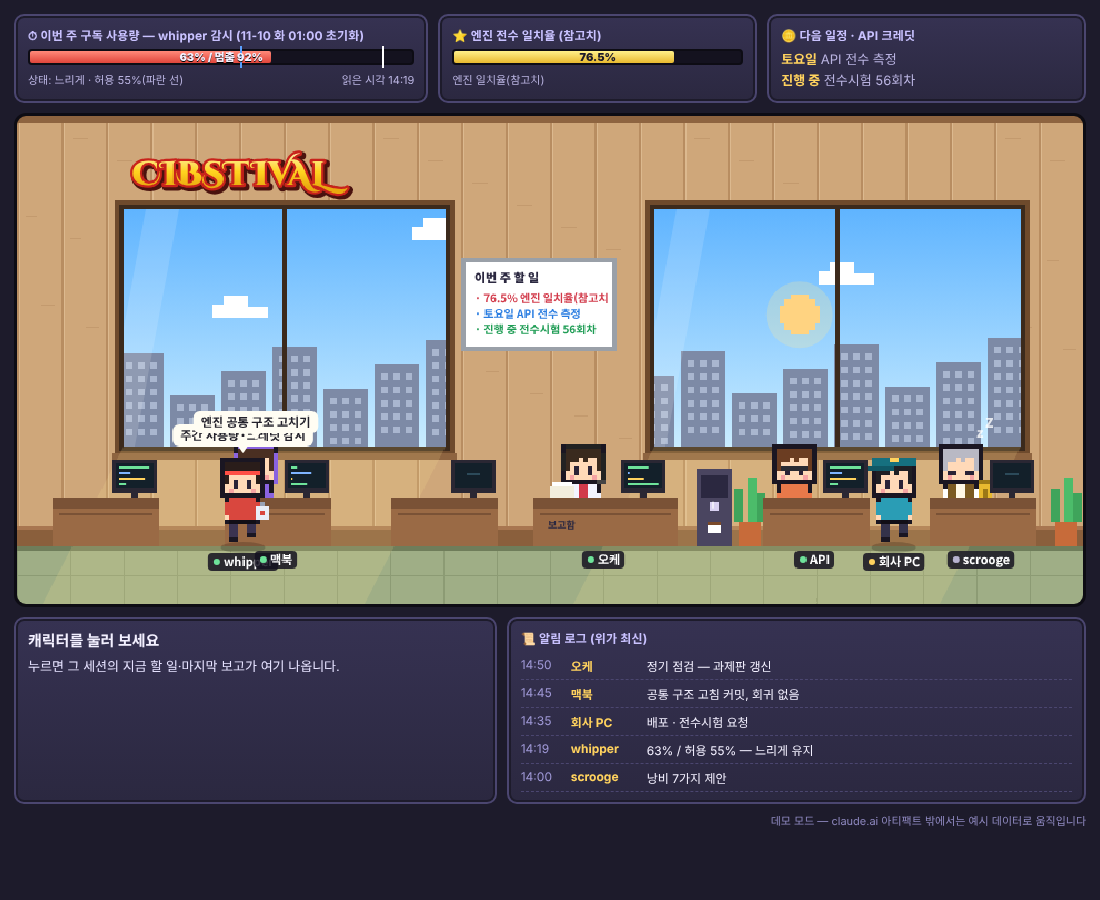
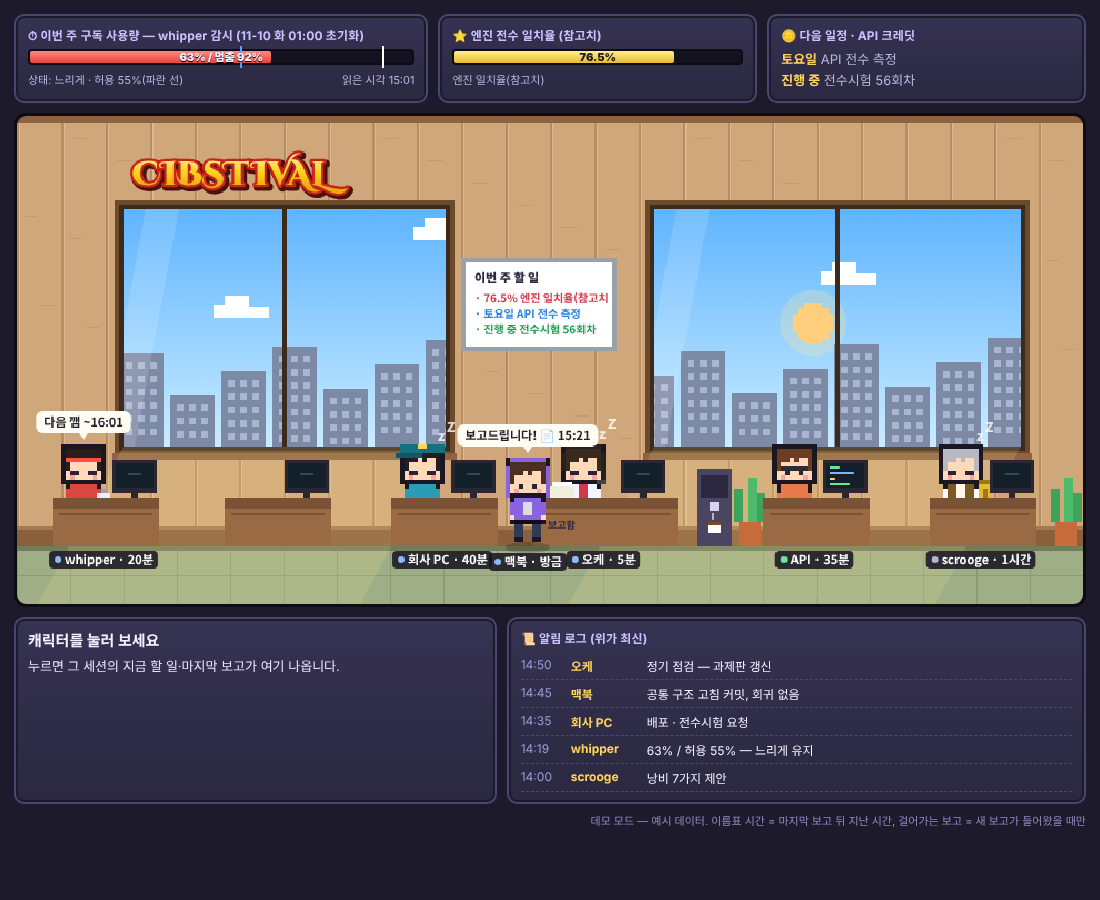
실제 보고 기준 표시: 경과 시간·쉬는 중/깨어 있음 추정·새 보고 때만 걷기
Claude-Session: https://claude.ai/code/session_012WAvWgsXRvRn2trPitaQGR

diff --git a/index.html b/index.html
@@ -76,6 +76,20 @@ const ROSTER = {
 const ORDER = ["whip","mac","pc","oke","api","scrooge"];
 let DATA = null;
 const STAT = {working:["일하는 중","#6ee39a"],waiting:["대기","#ffd25e"],idle:["쉼","#b7b2cf"],stopped:["중지","#ff7a70"]};
+// 실제 깨는 간격(분) — 세션은 깨서 한 단위 일하고 보고한 뒤 잔다
+const EVERY = {oke:60, mac:30, api:30, pc:60, whip:60, scrooge:120};
+function kstMin(){ const d=new Date(); const k=new Date(d.getTime()+(d.getTimezoneOffset()+540)*60000); return k.getHours()*60+k.getMinutes()+k.getSeconds()/60; }
+function hmOf(str){ const m=/(\d{1,2}):(\d{2})/.exec(String(str||"")); return m? (+m[1])*60+(+m[2]) : null; }
+function agoOf(str){ const v=hmOf(str); if(v==null) return null; let a=kstMin()-v; if(a<-5) a+=1440; return Math.max(0,a); }
+function agoTxt(a, short){ if(a==null) return "-"; if(a<1) return "방금"; if(a<60) return Math.floor(a)+"분"+(short?"":" 전"); const h=Math.floor(a/60), m=Math.floor(a%60); return short? h+"시간" : h+"시간 "+m+"분 전"; }
+function everyOf(id, s){ return (s&&s.every)||EVERY[id]||60; }
+function phaseOf(id, s){ // rest = 다음 깸 전(쉬는 중) · awake = 깰 시각 지남(일하는 중으로 추정) · silent = 오래 소식 없음
+  if(!s) return "rest"; const a=agoOf(s.last), ev=everyOf(id,s);
+  if(a==null) return "awake"; if(a>Math.max(180, ev*3)) return "silent"; return a<ev ? "rest" : "awake"; }
+function nextWakeOf(id, s){ const v=hmOf(s&&s.last); if(v==null) return null; const n=(v+everyOf(id,s))%1440; return String(Math.floor(n/60)).padStart(2,"0")+":"+String(Math.floor(n%60)).padStart(2,"0"); }
+const PH = {rest:["쉬는 중","#8fb8ff"], awake:["깨어 있음(추정)","#6ee39a"], silent:["소식 없음","#9a96ad"]};
+function dotColor(c){ if(c.status==="stopped"||c.status==="idle") return (STAT[c.status]||["","#b7b2cf"])[1]; if(c.status==="waiting" && c.ph!=="silent") return c.ph==="awake"?"#ffd25e":"#8fb8ff"; return (PH[c.ph]||PH.rest)[1]; }
+function tagText(c){ const a=c.sess? agoOf(c.sess.last):null; return ROSTER[c.id].name+(a!=null?" · "+agoTxt(a,true):""); }
 
 /* ---------- 캔버스 ---------- */
 const cv = document.getElementById("cv"), ctx = cv.getContext("2d");
@@ -95,7 +109,7 @@ function drawChar(c, t){
   const ox = Math.round(c.x - 6*P), oy = Math.round(c.y - 20*P);
   const px=(x,y,w,h,col)=>r(ox+x*P, oy+y*P, w*P, h*P, col);
   const OUT="#1a1622", SKIN="#ffd9b8", EYE="#2a2236";
-  const grey = c.status==="stopped";
+  const grey = c.status==="stopped" || c.ph==="silent";
   if(grey) ctx.filter="grayscale(1) brightness(.85)";
   // 그림자
   if(c.pose!=="sit"){ ctx.fillStyle="rgba(0,0,0,.18)"; ctx.beginPath(); ctx.ellipse(c.x, c.y+1, 20, 5, 0, 0, 7); ctx.fill(); }
@@ -138,11 +152,11 @@ function drawChar(c, t){
   if(c.pose==="sleep"){ ctx.fillStyle="#ffffffcc"; ctx.font="900 12px 'Noto Sans KR'"; const zz=(t*0.8+c.seed)%1; ctx.fillText("z", c.x+14, oy-2-zz*10); ctx.fillText("Z", c.x+22, oy-10-zz*12); }
   if(c.pose==="sit"||c.pose==="sleep"){ c.hit = {x:ox-4, y:oy-4, w:12*P+8, h:20*P+8}; return; }
   // 이름표 (발 아래)
-  const nm = look.name; ctx.font="700 11px 'Noto Sans KR'";
+  const nm = tagText(c); ctx.font="700 11px 'Noto Sans KR'";
   const tw = ctx.measureText(nm).width + 18;
   const ny = c.pose==="sit"||c.pose==="sleep" ? DESKTOP+40 : c.y+6;
   rr(c.x - tw/2, ny, tw, 16, 4, "rgba(20,18,32,.85)");
-  const sc = (STAT[c.status]||["","#b7b2cf"])[1];
+  const sc = dotColor(c);
   ctx.fillStyle=sc; ctx.beginPath(); ctx.arc(c.x - tw/2 + 8, ny+8, 3, 0, 7); ctx.fill();
   ctx.fillStyle="#fff"; ctx.fillText(nm, c.x - tw/2 + 14, ny+12);
   // 말풍선
@@ -242,7 +256,7 @@ function drawDesk(id, owner, t){
   // 모니터
   const mx = x + (big?34:26), my = DESKTOP-34;
   r(mx-20,my,40,30,"#2a2733"); r(mx-17,my+3,34,22,"#13202a"); r(mx-3,my+30,6,4,"#2a2733");
-  if(owner && owner.status==="working"){
+  if(owner && owner.status==="working" && owner.ph==="awake"){
     for(let i=0;i<4;i++){ const len = ((t*30 + i*13 + owner.seed*40) % 30); r(mx-14, my+6+i*5, Math.min(28,len), 2, ["#6ee39a","#7fb4ff","#ffd25e","#6ee39a"][i]); }
   } else if(owner && owner.status==="stopped"){ r(mx-17,my+3,34,22,"#000"); }
   else { r(mx-6,my+12,12,2,"#2c4a5a"); }
@@ -250,7 +264,7 @@ function drawDesk(id, owner, t){
 }
 
 /* ---------- 캐릭터 상태 ---------- */
-const chars = ORDER.map((id,i)=>({id, x:DESK[id]-20, y:FLOOR-12, home:DESK[id]-20, pose:"sit", walking:false, target:null, plan:[], wait:0, bubble:"", bubbleT:0, nextTalk:2+i*2, nextTrip:4+i*4, status:"idle", seed:Math.random(), sess:null}));
+const chars = ORDER.map((id,i)=>({id, x:DESK[id]-20, y:FLOOR-12, home:DESK[id]-20, pose:"sit", walking:false, target:null, plan:[], wait:0, bubble:"", bubbleT:0, nextTalk:3+i*3, status:"idle", ph:"rest", pending:null, seed:Math.random(), sess:null}));
 function sess(id){ return DATA && DATA.sessions ? DATA.sessions.find(s=>s.id===id) : null; }
 function say(c, txt, dur){ c.bubble=txt; c.bubbleT=dur||4; }
 function go(c, x, then){ c.plan.push({x, then}); }
@@ -271,28 +285,30 @@ function update(c, dt, t){
   if(c.plan.length){ c.target = c.plan[0].x; return; }
 
   const atHome = Math.abs(c.x-c.home)<2;
-  if(st==="stopped"){ if(!atHome){ c.target=c.home; c.plan=[{x:c.home}]; return; } c.pose="sit"; c.y=FLOOR-12; return; }
-  if(st==="idle"){ if(!atHome){ c.target=c.home; c.plan=[{x:c.home}]; return; } c.pose="sleep"; c.y=FLOOR-12; return; }
+  c.ph = phaseOf(c.id, s);
+  // ③ 진짜 새 보고가 들어왔을 때만 오케에게 걸어감
+  if(c.pending){ const pd=c.pending; c.pending=null;
+    if(c.id==="oke"){ c.plan=[{x:BOARD, then:()=>{ c.wait=3; say(c,"판 갱신 "+(pd||""),3.5);} },{x:c.home}]; c.target=c.plan[0].x; return; }
+    const ox = DESK.oke + (c.x<DESK.oke? -70: 70);
+    const msg = c.id==="whip" ? (()=>{ const u=(DATA&&DATA.usage)||{}; return `사용량 ${u.pct??"-"}% · ${u.state??""} ⏱`; })() : "보고드립니다! 📄 "+(pd||"");
+    c.plan=[{x:ox, then:()=>{ c.wait=3; say(c,msg,3.5); const o=chars.find(q=>q.id==="oke"); if(o) say(o,"확인했어요 👍",2.5);} },{x:c.home}]; c.target=c.plan[0].x; return; }
+  const sitHome = pose => { if(!atHome){ c.target=c.home; c.plan=[{x:c.home}]; return true; } c.pose=pose; c.y=FLOOR-12; return false; };
+  if(st==="stopped"){ sitHome("sit"); return; }
+  if(st==="idle"){ sitHome("sleep"); return; }
+  c.nextTalk -= dt;
+  if(c.ph==="silent"){ if(sitHome("sit")) return;
+    if(c.nextTalk<=0){ c.nextTalk=25+Math.random()*15; say(c, "소식 없음 "+agoTxt(agoOf(s&&s.last)), 4); } return; }
+  if(c.ph==="rest"){ if(sitHome("sleep")) return;
+    if(c.nextTalk<=0){ c.nextTalk=25+Math.random()*15; const nw=nextWakeOf(c.id,s); say(c, (st==="waiting"?"대기 · ":"")+"다음 깸 ~"+(nw||"?"), 4); } return; }
+  // awake(추정)
   if(st==="waiting"){
-    // 라운지 배회
     c.pose="stand"; c.y=FLOOR;
     const nx = 120 + Math.random()*700;
     c.plan=[{x:nx, then:()=>{ c.wait=2+Math.random()*4; if(Math.random()<.6) say(c, "대기: "+((s&&s.task)||"…"), 4); }}];
     c.target = nx; return;
   }
-  // working
-  if(!atHome && c.plan.length===0){ c.target=c.home; c.plan=[{x:c.home}]; return; }
-  c.pose="sit"; c.y=FLOOR-12;
-  c.nextTalk -= dt; c.nextTrip -= dt;
-  if(c.nextTalk<=0){ c.nextTalk = 10+Math.random()*10; if(s && s.task) say(c, s.task, 4.5); }
-  if(c.nextTrip<=0){
-    c.nextTrip = 14+Math.random()*16;
-    if(c.id==="whip"){ c.plan=[{x:DESK.oke-70, then:()=>{ c.wait=3; const u=(DATA&&DATA.usage)||{}; say(c, `사용량 ${u.pct??"-"}% · ${u.state??""} ⏱`, 3);} },{x:c.home}]; c.target=c.plan[0].x; return; }
-    if(c.id==="oke"){ c.plan=[{x:BOARD, then:()=>{ c.wait=3; say(c,"계획 갱신 중…",3);} },{x:c.home}]; c.target=c.plan[0].x; return; }
-    if(c.id==="scrooge"){ c.plan=[{x:COFFEE+30, then:()=>{ c.wait=3; say(c,"토큰 아끼자!",3);} },{x:c.home}]; c.target=c.plan[0].x; return; }
-    if(s && (s.reported || Math.random()<.5)){ const ox = DESK.oke + (c.x<DESK.oke? -70: 70);
-      c.plan=[{x:ox, then:()=>{ c.wait=3; say(c,"보고드립니다! 📄",3); const o=chars.find(q=>q.id==="oke"); if(o) say(o,"확인했어요 👍",2.5);} },{x:c.home}]; c.target=c.plan[0].x; return; }
-  }
+  if(sitHome("sit")) return;
+  if(c.nextTalk<=0){ c.nextTalk = 20+Math.random()*15; if(s && s.task) say(c, s.task, 4.5); }
 }
 
 /* ---------- 루프 ---------- */
@@ -311,11 +327,11 @@ function frame(now){
   requestAnimationFrame(frame);
 }
 function drawNameOnly(c){
-  const look=ROSTER[c.id]; ctx.font="700 11px 'Noto Sans KR'";
-  const tw=ctx.measureText(look.name).width+18, ny=DESKTOP+48;
+  const look=ROSTER[c.id], nm=tagText(c); ctx.font="700 11px 'Noto Sans KR'";
+  const tw=ctx.measureText(nm).width+18, ny=DESKTOP+48;
   rr(c.x-tw/2+18, ny, tw, 16, 4, "rgba(20,18,32,.85)");
-  ctx.fillStyle=(STAT[c.status]||["","#b7b2cf"])[1]; ctx.beginPath(); ctx.arc(c.x-tw/2+26, ny+8, 3,0,7); ctx.fill();
-  ctx.fillStyle="#fff"; ctx.fillText(look.name, c.x-tw/2+32, ny+12);
+  ctx.fillStyle=dotColor(c); ctx.beginPath(); ctx.arc(c.x-tw/2+26, ny+8, 3,0,7); ctx.fill();
+  ctx.fillStyle=c.ph==="silent"?"#b9b6c8":"#fff"; ctx.fillText(nm, c.x-tw/2+32, ny+12);
   if(c.bubble && c.bubbleT>0){
     const txt=c.bubble.length>24?c.bubble.slice(0,23)+"…":c.bubble;
     const bw=ctx.measureText(txt).width+14, bx=Math.max(4,Math.min(W-bw-4,c.x-bw/2)), by=c.y-20*P-30;
@@ -335,7 +351,8 @@ cv.addEventListener("click", e=>{
   document.getElementById("info").innerHTML = `<b>${esc(look.name)}</b><span class="pill" style="background:${st[1]}">${st[0]}</span>
     <div class="row"><span class="lbl">역할</span>${esc(look.role)}</div>
     <div class="row"><span class="lbl">지금 할 일</span>${esc(s.task||"-")}</div>
-    <div class="row"><span class="lbl">마지막 보고 ${esc(s.last||"-")}</span>${esc(s.note||"")}</div>`;
+    <div class="row"><span class="lbl">마지막 보고 ${esc(s.last||"-")} (${esc(agoTxt(agoOf(s.last)))}) · 지금: ${esc((PH[c.ph]||PH.rest)[0])}${c.ph==="rest"?" · 다음 깸 ~"+esc(nextWakeOf(c.id,s)||"?"):""}</span>${esc(s.note||"")}</div>
+    <div class="row" style="font-size:11px;color:#9f98d6">'깨어 있음/쉬는 중'은 마지막 보고 시각과 깨는 간격(${everyOf(c.id,s)}분)으로 추정한 것입니다.</div>`;
   say(c, "저요?", 1.5);
 });
 
@@ -354,7 +371,22 @@ function renderHUD(d){
   document.getElementById("expL").textContent = eng? eng.l : "";
   document.getElementById("kpi").innerHTML = items.slice(1).map(k=>`<div><b style="color:var(--gold)">${esc(k.v)}</b> <span style="color:#b9b3e0">${esc(k.l)}</span></div>`).join("");
   document.getElementById("feed").innerHTML = (d.feed||[]).map(f=>`<li><span class="t">${esc(f.t)}</span><b>${esc(f.who)}</b><span>${esc(f.text)}</span></li>`).join("");
-  document.getElementById("upd").textContent = "판 갱신: "+(d.updated||"-")+" · 오케가 정기 점검 때마다 갱신 · 캐릭터는 이 사무실을 위해 새로 그린 도트 캐릭터";
+  footer();
+}
+function footer(){ const d=DATA; if(!d) return; const a=agoOf(d.updated);
+  document.getElementById("upd").textContent = "판 갱신 "+(d.updated||"-")+(a!=null?" ("+agoTxt(a)+")":"")+" · 세션은 30~60분마다 깨서 한 단위 일하고 보고 · 판은 오케 점검(약 60분) 때 갱신 · 이름표 시간 = 마지막 보고 뒤 지난 시간 · 걸어가는 보고 = 실제 새 보고";
+}
+setInterval(footer, 30000);
+let PREV=null;
+function onData(d){
+  const first = PREV==null;
+  (d.sessions||[]).forEach(ns=>{ const c=chars.find(q=>q.id===ns.id); if(!c) return;
+    const old = first? null : (PREV.sessions||[]).find(o=>o.id===ns.id);
+    const fresh = first ? (agoOf(ns.last)!=null && agoOf(ns.last)<=10) : (!old || old.last!==ns.last);
+    if(fresh && ns.id!=="oke") c.pending = ns.last||"";
+  });
+  if(!first && PREV.updated!==d.updated){ const o=chars.find(q=>q.id==="oke"); if(o) o.pending=(hmOf(d.updated)!=null? String(d.updated).match(/\d{1,2}:\d{2}/)[0]:""); }
+  PREV = JSON.parse(JSON.stringify(d));
 }
 
 const DEMO = {
@@ -377,9 +409,20 @@ const DEMO = {
     {t:"14:00", who:"scrooge", text:"낭비 7가지 제안"}
   ]
 };
-function useDemo(msg){ DATA=DEMO; renderHUD(DEMO); document.getElementById("upd").textContent = msg; }
+function hhmmAgo(min){ const v=((kstMin()-min)%1440+1440)%1440; return String(Math.floor(v/60)).padStart(2,"0")+":"+String(Math.floor(v%60)).padStart(2,"0"); }
+function useDemo(msg){
+  // 데모: 마지막 보고 시각을 지금 기준으로 맞춤(맥북은 방금 보고, 나머지는 쉬는 중·깨어 있음 섞임)
+  const off={oke:5, mac:0.5, pc:40, api:35, whip:20, scrooge:70};
+  DEMO.sessions.forEach(x=>{ x.last=hhmmAgo(off[x.id]||10); });
+  DEMO.updated="데모 "+hhmmAgo(5); DEMO.usage.at=hhmmAgo(20);
+  DATA=DEMO; onData(DEMO); renderHUD(DEMO); document.getElementById("upd").textContent = msg;
+  setInterval(()=>{ // 데모용: 2~3분마다 누군가 새 보고
+    const ids=["mac","api","pc","whip","scrooge"], id=ids[Math.floor(Math.random()*ids.length)];
+    const d2=JSON.parse(JSON.stringify(DATA)); d2.sessions.find(x=>x.id===id).last=hhmmAgo(0); DATA=d2; onData(d2); renderHUD(d2);
+    document.getElementById("upd").textContent = msg; }, 150000);
+}
 (async ()=>{
-  if(typeof window.claude==="undefined" || !window.claude || !window.claude.use){ useDemo("데모 모드 — claude.ai 아티팩트 밖에서는 예시 데이터로 움직입니다"); return; }
+  if(typeof window.claude==="undefined" || !window.claude || !window.claude.use){ useDemo("데모 모드 — 예시 데이터. 이름표 시간 = 마지막 보고 뒤 지난 시간, 걸어가는 보고 = 새 보고가 들어왔을 때만"); return; }
   const timer=setTimeout(()=>{document.getElementById("upd").textContent="판 데이터를 아직 불러오지 못했습니다(로그인 필요).";},10000);
   try{
     const db = await claude.use("db");
@@ -387,7 +430,7 @@ function useDemo(msg){ DATA=DEMO; renderHUD(DEMO); document.getElementById("upd"
     db.doc("office/state").onSnapshot(snap=>{
       if(!snap.metadata.fromCache) clearTimeout(timer);
       const d = snap.exists ? snap.data() : null;
-      if(d && d.sessions){ DATA=d; renderHUD(d); } else document.getElementById("upd").textContent="아직 판 데이터 없음 — 오케가 다음 점검 때 채웁니다";
+      if(d && d.sessions){ DATA=d; onData(d); renderHUD(d); } else document.getElementById("upd").textContent="아직 판 데이터 없음 — 오케가 다음 점검 때 채웁니다";
     }, ()=>{ clearTimeout(timer); document.getElementById("upd").textContent="판 데이터를 불러오지 못했습니다."; });
   }catch(e){ clearTimeout(timer); document.getElementById("upd").textContent="판 데이터를 불러오지 못했습니다."; }
 })();

diff --git a/README.md b/README.md
@@ -18,6 +18,13 @@
   - 각 작업 세션이 페이지에 직접 데이터를 보내지는 않습니다. 세션은 보고 문서를 쓰고, 총괄이 그것을 읽어 상태를 정리해 넣습니다.
   - 그래서 실시간 중계가 아니라 점검 주기마다 바뀌는 상황판입니다.
 
+## 화면이 실제와 얼마나 맞나
+
+- **이름표의 시간**: 그 세션의 마지막 실제 보고 뒤 지난 시간입니다.
+- **쉬는 중 / 깨어 있음(추정)**: 세션은 30~60분마다 깨서 한 단위 일하고 보고한 뒤 다시 잡니다. 마지막 보고 시각에 깨는 간격을 더해 다음 깸 전이면 '쉬는 중'(졸고 있음), 지났으면 '깨어 있음(추정)'(타이핑)으로 그립니다. 보고가 오래 없으면 '소식 없음'으로 회색이 됩니다.
+- **오케에게 걸어가는 보고**: 새 보고가 실제로 들어왔을 때만 나옵니다(데모 모드에서는 2~3분마다 예시 보고).
+- **판 갱신**: 총괄 세션의 정기 점검(약 60분) 때 갱신됩니다. 그래서 실제 보고보다 늦게 보일 수 있습니다.
+
 ## 데이터 형식 (`office/state`)
 
 예시는 `sample-state.json`에 있습니다.
@@ -28,7 +35,7 @@
   usage:   { pct, allowed, state, stop, at },        // 주간 사용량 HP바
   progress:{ items:[ {v, l}, ... ] },                // 첫 항목 = EXP바, 나머지 = 오른쪽 위 KPI
   sessions:[ { id: oke|mac|pc|api|whip|scrooge, name, status: working|waiting|idle|stopped,
-               task, last, note, bubble?, reported? } ],
+               task, last("HH:MM" 서울 시각), note, every?(깨는 간격, 분), bubble? } ],
   feed:    [ { t, who, text } ]                      // 알림 로그(위가 최신)
 }
 ```
